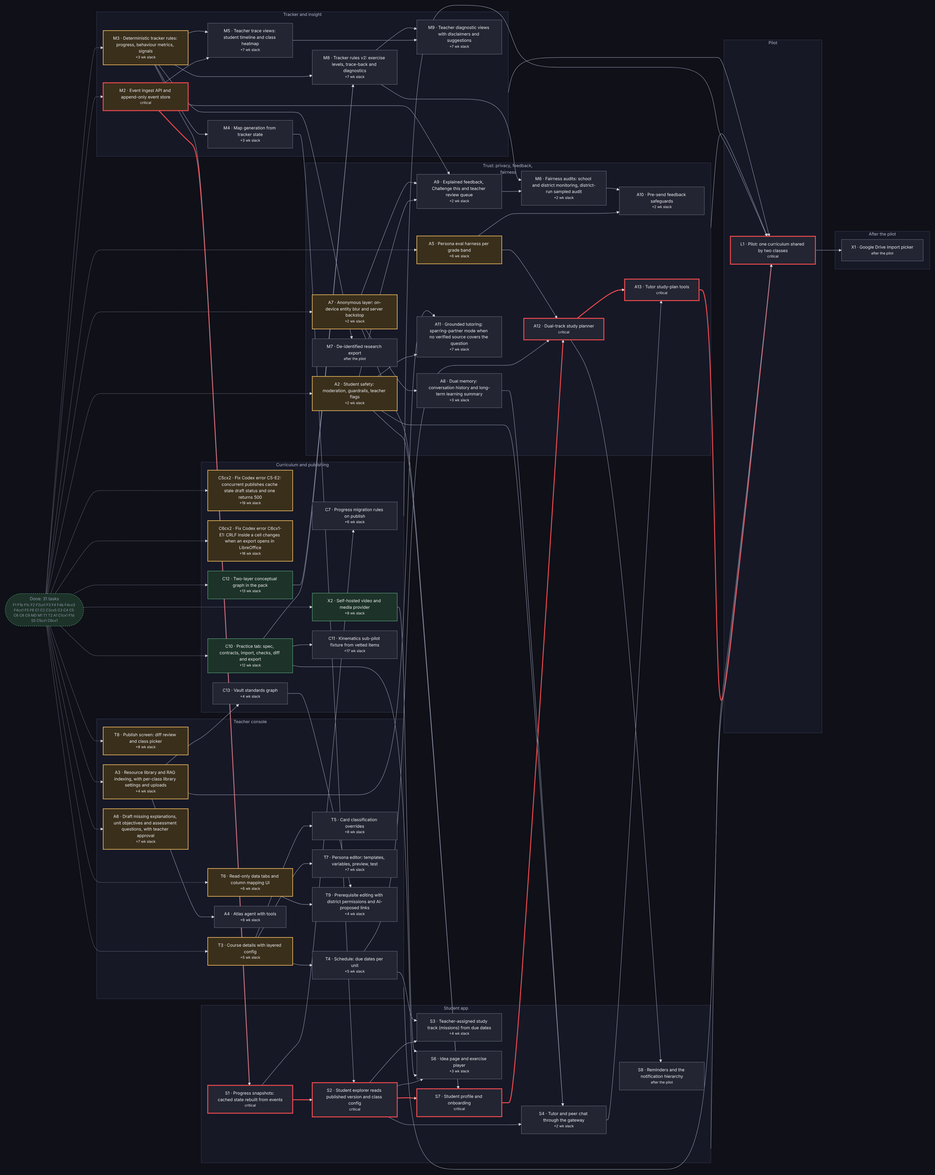
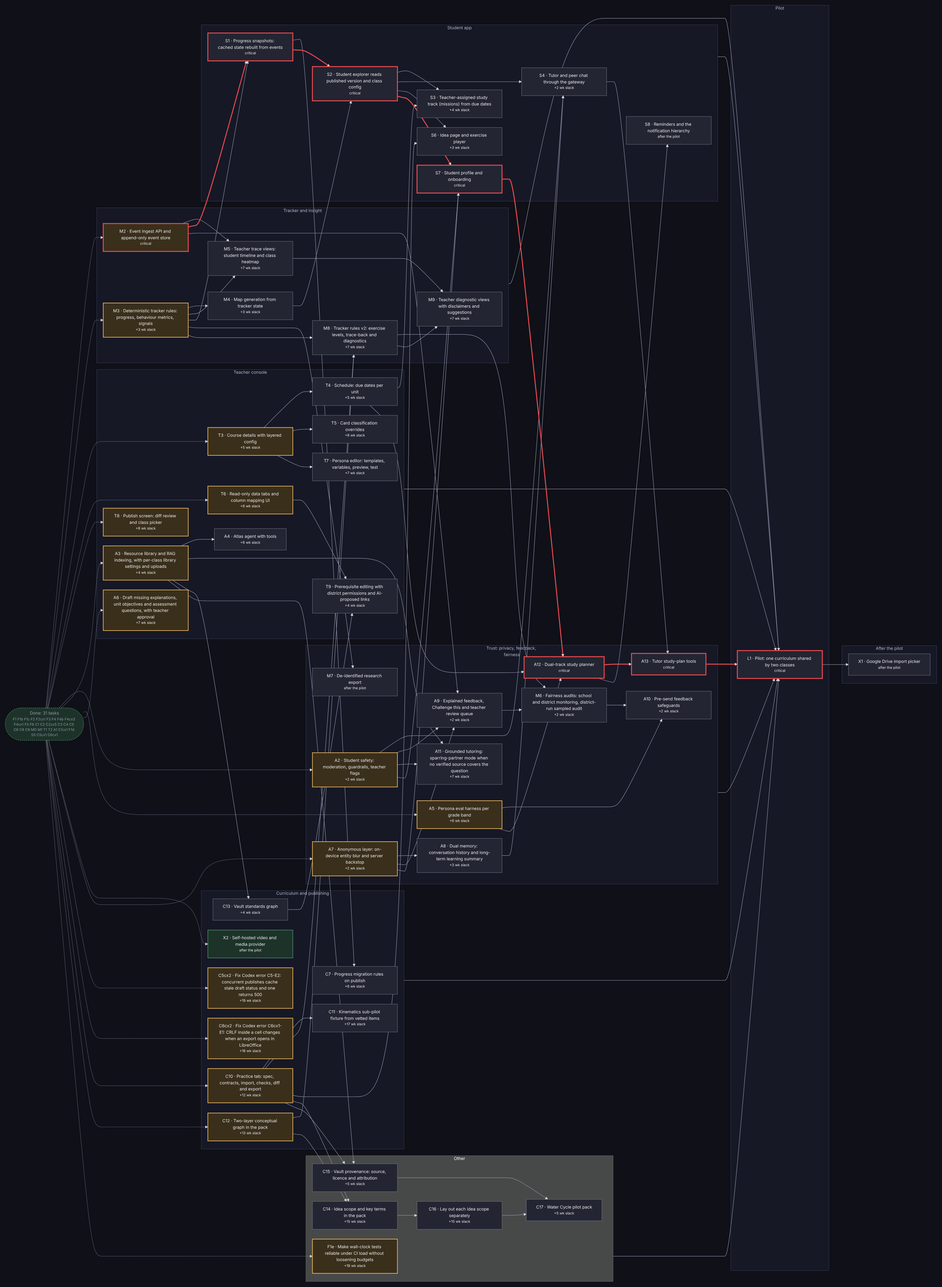
docs: D31 vault provenance, D43 scope and key terms, D44 pilot graph; add C14-C17 and S9
User decisions 2026-10-29. D31 amended: vault items are official company
assets but keep source, licence and attribution; NC or SA items need admin
approval. D43: Ideas gain scope (prerequisite, core, extension) and
key_terms; the unchanged layout runs per scope. D44: the Water Cycle pilot
graph (10 ideas incl. Runoff, Collection & Gravity, 12 links) in
docs/decisions. Criteria written first for C14 (columns), C15 (vault
provenance), C16 (per-scope layout) and C17 (pilot pack); S9 (zoom and
sandbox views) is a later-version placeholder. L1 now depends on C14-C17.

Claude-Session: https://claude.ai/code/session_017xAqLcBw3ZrNAbTTGfVg5K

diff --git a/docs/ARCHITECTURE.md b/docs/ARCHITECTURE.md
@@ -39,7 +39,7 @@ Companions: `docs/PLAN.md` (live to-do list and dependency map, generated from `
 | D28 | Dual memory: short-term conversation, long-term learning summary | Short-term memory is the current conversation, already anonymised. Long-term entity summaries may hold misconceptions, what helped, preferred pace, and up to five interests from the approved category list. They never hold feelings or mood history, family, health, friendships, personality traits, or anything from an A2-flagged conversation. Memory is never used for D20 inferences, D16 audits or D25 research, and never shared across classes (user, 2026-10-23). **Extended by D36 (user, 2026-10-29)** for the student profile |
 | D29 | Memory lasts while enrolled, and can be seen and deleted | Long-term memory lasts while the student is enrolled, matching D22, and is deleted when they leave or on a FERPA request. The student can see "what Ms. Ivy remembers about me", delete any item and turn memory off. Their teacher can view and delete memory for their class (user, 2026-10-23) |
 | D30 | Feedback teaching events name the teacher, pseudonymously | `feedback.ruled`, `teacher.feedback.approved` and `teacher.feedback.edited` carry the acting teacher's pseudonymous id (never a name or email). It is extra information, not a core field: it lets D15's labelled examples weigh each teacher's contributions equally, so a teacher who rules or edits often does not outweigh one who gives a single strong example. Teacher ids are never shown to students (user, 2026-10-24) |
-| D31 | Library assets are tiered: a kept vault and disposable class uploads | **Official** materials (the curriculum's shared library documents, uploaded to the organization by its author or an admin, open-access, no student PII) go to a persistent, versioned **vault**: the original file and its passages are kept, a document is updated by a new version or taken out of use (`off`, archived), never deleted, and a change of embedding vendor (§12 q6) re-embeds from the stored files. **Unofficial** materials (a teacher's class uploads, D11) are disposable: the teacher may archive or delete one, and they are deleted with their class, passages and embeddings included. Neither tier is in the FERPA student-delete path (user, 2026-10-28; revises the same day's "never deleted" for class uploads) |
+| D31 | Library assets are tiered: a kept vault and disposable class uploads | **Official** materials (the curriculum's shared library documents, uploaded to the organization by its author or an admin, open-access, no student PII) go to a persistent, versioned **vault**: the original file and its passages are kept, a document is updated by a new version or taken out of use (`off`, archived), never deleted, and a change of embedding vendor (§12 q6) re-embeds from the stored files. **Unofficial** materials (a teacher's class uploads, D11) are disposable: the teacher may archive or delete one, and they are deleted with their class, passages and embeddings included. Neither tier is in the FERPA student-delete path (user, 2026-10-28; revises the same day's "never deleted" for class uploads) **Amended (user, 2026-10-29):** everything in the vault is an official company asset, curated and approved in-house, and the only ground for the tutor's facts (D35). Each vault item still keeps its provenance: `source`, `license_type` and `attribution_string`, with the attribution shown wherever its licence requires credit (including the tutor's citations). Calling an item a company asset does not change its licence terms, so an item under a non-commercial (NC) or share-alike (SA) licence enters the vault only after an admin approves it. Task C15 |
 | D32 | Safety flags are alerts, not the school's record | Idea Map is an alerting pipeline, not the school's compliance system of record. A flag is deleted with its transcript at the district's AI retention period (default 90 days). Once resolved, it is deleted after the district's early-deletion window if that comes first: a per-district setting, default 30 whole days (deleted on day 31), so districts can match their DPA. Like every retention period (§10, F6), the setting lives on the organization and the daily retention job reads it at run time, so a change applies to every resolved flag at once and is audited (user, 2026-10-28) |
 | D33 | On-device names come from an ML NER model | The device layer (D26) finds people's names and places with an on-device ML NER model reading sentence context, not word lists, so no class roster is ever sent to or stored on a student device. Pattern rules still catch contact details and school identifiers; the server backstop (D27) still matches the roster server-side If no ML model can be loaded (the chosen one, or a configured alternative), the device layer fails closed: student chat is blocked until a model is available, and the device never falls back to word lists. The model's licence (no licence stated on its card; MIT base model; CoNLL-2003 training data) is accepted for now and revisited before release. A measured accuracy bar on children's writing is deferred (user, 2026-10-28) |
 | D34 | Persona eval baselines are teacher-approved | Persona eval ground truth (§9) comes from replies a teacher approves, which feed a living set of evidence, instead of hand-written or one-off recorded baselines. How approvals are tagged to persona template versions, so old approvals don't conflict with updated templates, is still open (§12 q14) (user, 2026-10-28) |
@@ -51,6 +51,8 @@ Companions: `docs/PLAN.md` (live to-do list and dependency map, generated from `
 | D40 | Practice is the ninth tab, from vetted item banks only | The Practice tab (exercises, worked-example video and steps, mastery practice) is populated only from externally sourced, psychometrically vetted item banks (for example OpenStax, PhET, NASA/NOAA). Neither the platform nor a model authors independent-practice questions. Independent practice is locked to the verified master sheet (user, 2026-10-29; spec `docs/decisions/2026-10-29-prototype-spec.md`). **Settled:** every Practice row carries `source_bank_id` (e.g. OpenStax, PhET, NASA), `license_type` (e.g. Public Domain, CC-BY-4.0) and `attribution_string`, which the UI renders visibly. C3's generated map quizzes and A6's teacher-approved teach-back drafts stay: they are formative scaffolds, not independent practice (user, 2026-10-29, §12 q16–q23). **Settled (user, 2026-10-29, §12 q25):** Practice items are always shown verbatim with their attribution; student interests (D41 `interest_tags`) shape only Ms. Ivy's and Milo's examples and hints and the formative generated content (C3, A6), never a vetted item. **Settled (user, 2026-10-29): D40 stays strict.** A teacher's own worksheets and uploads never enter the Practice tab, whoever authored them and whatever licence they carry, and Atlas never inserts them there. They stay class uploads (D31, unofficial tier) and appear as formative practice labelled as the teacher's, separate from vetted items and outside the vetted mastery levels |
 | D41 | Standards-aligned Vault graph and two-layer trace-back | "Traced to weakest prerequisite" is an explained teacher signal (D20). Procedural domains (e.g. kinematics) are a strict DAG of mathematical and operational steps. Conceptual or cyclical domains (e.g. the water cycle) are two layers: the surface process loop (evaporation → condensation → precipitation) over underlying causal mechanisms (thermal energy, phase change, gravity, droplet mass, topography) aligned to NGSS/CCSS standards pre-loaded in the Vault; trace-back goes down to the mechanism layer, not around the loop. In teacher-led mode, editing curriculum or attaching custom worksheets follows district permissions: Locked, Direct edit, or Admin review queue, always draft → publish. For an uploaded worksheet the AI proposes prerequisite links into the Vault graph and the teacher adjusts edges or adds nodes before publishing (user, 2026-10-29; spec `docs/decisions/2026-10-29-prototype-spec.md`). **Settled:** per-curriculum interest hooks are `interest_tags: string[]` on curriculum module metadata in the Vault, matched against the student's profile tags when a prompt is assembled (user, 2026-10-29, §12 q16–q23) |
 | D42 | Pilot scope; self-hosted video | Videos are self-hosted through the media provider (X2), never third-party embedded players, so playback works behind school firewalls; ~~X2 moves before the pilot~~ **Amended (user, 2026-10-29): X2 moves after the pilot.** Video hosting and the player come once the pilot has validated the node graph and tutor mechanics; until then `media_url` and `demo_video_url` show placeholder cards, and no third-party player is used in the meantime. The two-layer graph (C12) and trace-back (M8) stay in pilot scope. The pilot launches with the Water Cycle (conceptual, two-layer) as the primary unit and Kinematics (procedural) as a sub-pilot (user, 2026-10-29; spec `docs/decisions/2026-10-29-prototype-spec.md`). **Settled:** X2 is our own S3-compatible object storage served from our own domain or CDN distribution, not YouTube or Cloudinary widgets; every video needs a WebVTT caption file (ADA) (user, 2026-10-29, §12 q16–q23) |
+| D43 | Idea scope and key terms | Ideas gain two optional `sheet` columns. `scope` ∈ prerequisite, core, extension (missing means core) says where an idea sits: **core** ideas form the grade's main map; **prerequisite** ideas (earlier units or lower grades) appear when a student zooms in for remediation; **extension** ideas form the sandbox of outward connections. `scope` is independent of D41's `layer` (process or mechanism). `unit` stays required: for a prerequisite or extension idea it names the unit the idea supports. `key_terms` is a list of the vocabulary taught inside an idea (instruments, units, examples such as barometer, lux, hailstone); key terms are never map nodes, and are used for the glossary, search, retrieval and Milo's teach-back check. Only a full process with its own objective, practice and teach-back becomes an idea. The layout algorithm is unchanged, but it runs per scope, so the main map is laid out from core ideas only (user, 2026-10-29). Tasks C14, C16; zoom and sandbox views S9 (later version) |
+| D44 | Water Cycle pilot graph | The pilot Water Cycle (D42) is authored in-house, with OpenSciEd Unit 6.3 (CC BY 4.0) as the conceptual reference and vocabulary inventory, never imported wholesale. It has 10 ideas: 2 prerequisite, 6 core (including Runoff, Collection & Gravity, which closes the cycle and covers gravity, as MS-ESS2-4 requires) and 2 extension, plus 12 links. The graph is in `docs/decisions/2026-10-29-water-cycle-pilot-graph.md`. Clicking an idea opens its teaching and practice page (S6), not a nested sub-graph (user, 2026-10-29). Task C17 |
 
 ## 2. The core split
 

diff --git a/docs/decisions/2026-10-29-water-cycle-pilot-graph.md b/docs/decisions/2026-10-29-water-cycle-pilot-graph.md
@@ -1,0 +1,60 @@
+# Water Cycle pilot graph (D44)
+
+Settled by the user on 2026-10-29. This is the structure of the pilot curriculum (D42, task L1). Teachers author the explanations, objectives and teach-back questions. Where they leave one empty, A6 drafts it for teacher approval.
+
+## Scope and grounding
+
+- **Standard:** NGSS MS-ESS2-4. Develop a model to describe the cycling of water through Earth's systems, driven by energy from the sun and the force of gravity.
+- **Ownership:** The curriculum is authored and approved in-house. OpenSciEd Unit 6.3 (*Weather, Climate & Water Cycling*, v1.0, CC BY 4.0) is the conceptual reference and vocabulary inventory, not an import. Any reused text or figure carries its attribution (D31 as amended).
+- **Tutors:** Ms. Ivy states facts only from vault sources and asks questions where none exists (D35). Milo checks teach-backs against each idea's objective and key points.
+- **Clicking an idea** opens its teaching and practice page (S6).
+
+## Ideas
+
+`scope` and `key_terms` are D43. `layer` is D41/C12. `unit` names the unit an idea supports. Units: 1 *Water goes up*, 2 *Water in the sky*, 3 *Water comes down and moves on*.
+
+| # | idea_id | Title | scope | layer | unit | category | standard_codes | requires | key_terms (from the OpenSciEd 6.3 word wall) |
+|---|---|---|---|---|---|---|---|---|---|
+| 1 | `thermal` | Thermal Energy & Particle Motion | prerequisite | mechanism | 1 | Force | MS-PS1-4, MS-PS3-4 | | particles, energy, temperature, mass |
+| 2 | `solar` | Solar Radiation & Surface Heating | prerequisite | mechanism | 1 | Force | MS-PS4-2, MS-PS3-4 | | incoming light, reflected, absorbed, conduction, lux |
+| 3 | `evap` | Evaporation & Humidity | core | process | 1 | Process | MS-ESS2-4 | thermal | evaporation, humidity, relative humidity, parcel of air |
+| 4 | `convection` | Air Density & Convection | core | process | 1 | Process | MS-ESS2-4 | solar | density, convection, fluid, altitude, atmosphere |
+| 5 | `cond` | Condensation & Cloud Formation | core | process | 2 | Process | MS-ESS2-4 | evap | condensation, condensation/boiling point, freezing/melting point, deposition, cloud condensation nuclei (CCN) |
+| 6 | `pressure` | Air Pressure & Updrafts | core | process | 2 | Force | MS-ESS2-4 | convection | higher/lower pressure air, air pressure, lift force, downdrafts, updrafts, currents, barometer |
+| 7 | `precip` | Precipitation | core | process | 3 | Process | MS-ESS2-4 | cond | precipitation, hail, weather conditions, hailstone |
+| 8 | `runoff` | Runoff, Collection & Gravity | core | process | 3 | Process | MS-ESS2-4 | precip | gravity, runoff, collection, infiltration, groundwater, watershed |
+| 9 | `fronts` | Air Masses & Fronts | extension | process | 3 | Thing | MS-ESS2-5 | precip, convection | air mass, front, forecast |
+| 10 | `climates` | Regional Climates | extension | process | 3 | Thing | MS-ESS2-6 | fronts | climate, tropical rainforest, temperate rainforest, hurricane |
+
+- Gravity moved from Air Pressure's terms to Runoff, Collection & Gravity. That idea now teaches the force that returns water downhill.
+- If the trace-back later needs gravity as a mechanism of its own, gravity can be split out as a prerequisite and mechanism idea, as C12 allows.
+
+## Links
+
+All links have `importance` 3 unless a teacher changes it. The relations become quiz questions (C3).
+
+| From | Relation | To |
+|---|---|---|
+| Thermal Energy & Particle Motion | powers | Evaporation & Humidity |
+| Solar Radiation & Surface Heating | drives | Air Density & Convection |
+| Evaporation & Humidity | supplies water vapour for | Condensation & Cloud Formation |
+| Air Density & Convection | triggers | Condensation & Cloud Formation |
+| Air Density & Convection | creates | Air Pressure & Updrafts |
+| Condensation & Cloud Formation | leads to | Precipitation |
+| Air Pressure & Updrafts | suspends or drops | Precipitation |
+| Precipitation | flows downhill as | Runoff, Collection & Gravity |
+| Runoff, Collection & Gravity | returns water to | Evaporation & Humidity |
+| Precipitation | scales up to | Air Masses & Fronts |
+| Air Density & Convection | scales up to | Air Masses & Fronts |
+| Air Masses & Fronts | determine | Regional Climates |
+
+- The links close the surface loop: evaporation → condensation → precipitation → runoff → evaporation.
+- `requires` stays acyclic: runoff returns water to evaporation as a link, never as a prerequisite. This is the loop C12-F2 allows.
+
+## Layout check
+
+These are the results of running the current ranking and layout code (`packages/domain`, unchanged) on this graph on 2026-10-29.
+
+- **All 10 ideas on one map:** the centre is Air Density & Convection. A prerequisite (Thermal Energy) and an extension (Air Masses & Fronts) land on the inner ring. This is why D43 lays out each scope separately (C16).
+- **Core ideas only:** the centre is Condensation & Cloud Formation. Precipitation, Evaporation, Air Density, Air Pressure and Runoff form the inner ring, and all 7 core links are kept.
+- **Choosing the centre:** the centre is whichever idea has the most links. To put another idea at the centre, raise the importance of its links in the sheet.

diff --git a/docs/qa/C15.md b/docs/qa/C15.md
@@ -1,0 +1,38 @@
+# QA criteria: C15 · Vault provenance: source, licence and attribution
+
+Done when: per D31 (as amended 2026-10-29), every vault item and Library row keeps `source`, `license_type` and `attribution_string`. Attribution is shown wherever the licence requires credit, including the tutor's citations. A non-commercial (NC) or share-alike (SA) item enters the vault only after an admin approves it.
+Sources: `docs/ARCHITECTURE.md` D31 (amended), D35 (citations), D40 (allow-list pattern), D11, D3; `docs/spec/`; A3 (vault and RAG), C10 (licence allow-list configuration), C1, C2, C5, C6.
+
+Boundary: Library tab columns, vault document records, the approval gate, and attribution in retrieval citations. Class uploads (the unofficial tier) are out of scope and need no licence fields.
+
+## Functional
+
+| Id | Weight | Check | Steps | Pass bar |
+|---|---|---|---|---|
+| C15-F1 | must | Spec and contracts | Read `docs/spec/` and parse Library rows | Library gains `source`, `license_type` and `attribution_string` (`both`), each with its missing behaviour and an example (OpenSciEd Unit 6.3, CC-BY-4.0, its attribution line) |
+| C15-F2 | must | Missing provenance blocks | Import a Library row with no source or licence, and a CC-BY row with no attribution | Each is a data-check **error** that blocks publishing, located by tab, row and column |
+| C15-F3 | must | Licence list is configuration | Import rows under an allow-listed licence, an unknown licence, and a CC-BY-NC or CC-BY-SA licence | Allow-listed licences pass. An unknown licence is an error. NC and SA items import but stay **pending admin approval** and are not retrievable until an admin approves them. The licence list, including which licences need approval, is configuration (shared with C10's), not code |
+| C15-F4 | must | Admin approval | Approve, as an admin, a pending NC item; try the same as a teacher and an author | The admin's approval is audited (actor, item, licence) and makes the item retrievable. A teacher or author gets 403 |
+| C15-F5 | must | Kept with the vault | Replace a vault document with a new version, then take it out of use | Provenance is versioned with the document and kept after it is taken out of use (D31: never deleted) |
+| C15-F6 | must | Attribution in citations | Ask the tutor a question answered from a CC-BY vault item | The grounded answer's citation shows the item's attribution string. An item whose licence needs no credit shows its title only |
+| C15-F7 | must | Diff and export | Change an item's licence, then export | C5 diff shows the provenance change; C6 export round-trips all three columns |
+| C15-F8 | must | Everything passes | Root lint, format:check, typecheck, test with DATABASE_URL (including `function_binding.test.ts`), build and plan check, on the head merged with current `idea-map` | All exit 0; CI green on the exact head |
+
+## Security
+
+| Id | Weight | Check | Steps | Pass bar |
+|---|---|---|---|---|
+| C15-S1 | must | Gate can't be bypassed | Call retrieval directly for a pending NC item, from another org and from a student session | Never returned. Row-level security still isolates orgs |
+| C15-S2 | must | Policy on new routes | Run the route-policy sweep | Every new route declares a policy (F5) |
+
+## Performance
+
+| Id | Weight | Check | Steps | Pass bar |
+|---|---|---|---|---|
+| C15-P1 | must | Retrieval cost | Retrieval over 500 vault documents with provenance | Within A3's retrieval budget; the approval filter adds no measurable p95 regression |
+
+## Usability
+
+| Id | Weight | Check | Steps | Pass bar |
+|---|---|---|---|---|
+| C15-U1 | must | Plain approval screen | An admin opens the pending list | Each item shows title, source, licence in plain words (for example "Non-commercial: can't be used in paid products") and who added it |

diff --git a/docs/qa/C14.md b/docs/qa/C14.md
@@ -1,0 +1,37 @@
+# QA criteria: C14 · Idea scope and key terms in the pack
+
+Done when: per D43, Ideas carry `scope` (prerequisite, core, extension) and `key_terms`. Both are in `docs/spec/`, zod contracts, C1 import from CSV, XLSX and pack JSON, C2 data checks, C5 diff and C6 export. A pack without the columns behaves exactly as before.
+Sources: `docs/ARCHITECTURE.md` D43, D41 (`layer` is a separate column), D8, D12; `docs/decisions/2026-10-29-water-cycle-pilot-graph.md`; `docs/spec/`; C1, C2, C2cx5, C5, C5cx1, C6, C6cx1, C6cx2, C10, C12; `fixtures/water-cycle/`.
+
+Boundary: pack data, checks, diff and export only. Laying out each scope is C16. Zoom and sandbox views are S9. The pilot pack is C17.
+
+## Functional
+
+| Id | Weight | Check | Steps | Pass bar |
+|---|---|---|---|---|
+| C14-F1 | must | Spec and contracts | Read `docs/spec/` (README, fields JSON, schema) and parse Ideas rows | Ideas gain `scope` ∈ prerequisite, core, extension (`sheet`; missing means core) and `key_terms` (list, comma-separated in CSV and XLSX, an array in JSON; `sheet`; missing means none). Each has a type, missing behaviour, note and example. The note on `scope` says it is independent of `layer`, and `unit` stays required for every scope |
+| C14-F2 | must | Three forms agree | Add both columns to the water-cycle fixture as CSV, XLSX and pack JSON (at least one idea in each scope, several with key terms) and import all three | The parsed packs are deep-equal. Earlier tabs and documented deliberate errors are unchanged, and the fixture README lists the new values |
+| C14-F3 | must | Backward compatible | Import the current fixture and a Kinematics-style pack without the columns | Every idea is core with no key terms. Derived output (ranking, layout, quizzes) is byte-identical to before the change |
+| C14-F4 | must | Data checks | Import: an invalid `scope` value; a pack with no core idea; a core idea whose `requires` names an extension idea; the same key term repeated within one idea; a key term equal to an idea title | Invalid scope and no core idea are **errors** that block publishing, located by tab, row and column. Core requiring extension is a **warning** ("extension ideas build on the core, not the other way round"). A duplicate term is **info**. A key term matching an idea title is a **warning** ("this term is also an idea; link to the idea instead"). Each message names the ideas |
+| C14-F5 | must | Diff (C5) | Publish, then change one idea's scope and add and remove key terms | The diff lists scope changes (old → new) and key-term additions and removals by idea display name, independent of order |
+| C14-F6 | must | Export (C6) | Export to CSV, XLSX and pack JSON and re-import | Round-trips, with canonical line endings (C6cx2) |
+| C14-F7 | must | Everything passes | Root lint, format:check, typecheck, test with DATABASE_URL (including `function_binding.test.ts`), build and plan check, on the head merged with current `idea-map` | All exit 0; CI green on the exact head |
+
+## Security
+
+| Id | Weight | Check | Steps | Pass bar |
+|---|---|---|---|---|
+| C14-S1 | must | No student data | Read the change | Curriculum data only |
+| C14-S2 | must | Input limits | Import 1,000 key terms on one idea and a 10,000-character term | Each limit from the spec is enforced with a located error; nothing crashes |
+
+## Performance
+
+| Id | Weight | Check | Steps | Pass bar |
+|---|---|---|---|---|
+| C14-P1 | must | Large pack | 2,000 ideas with 10 key terms each | Import and checks stay within C2's budget |
+
+## Usability
+
+| Id | Weight | Check | Steps | Pass bar |
+|---|---|---|---|---|
+| C14-U1 | must | Clear messages | Read each new check | Plain words, naming the idea and saying what to change in which column |

diff --git a/docs/PLAN.md b/docs/PLAN.md
@@ -2,7 +2,7 @@
 
 <!-- Generated by `node scripts/plan.mjs` from docs/tasks.json. Do not edit by hand. -->
 
-**31 of 78 done** · 1 ready · 0 in progress · 15 in review · 29 blocked · 2 need a spec
+**31 of 83 done** · 1 ready · 0 in progress · 15 in review · 33 blocked · 3 need a spec
 
 Critical path: F1 → F3 → F4 → F5 → M2 → S1 → S2 → S7 → A12 → A13 → L1 (up to 22 weeks)
 
@@ -51,7 +51,7 @@ Pick from here. Claim with `node scripts/plan.mjs claim <ID> <agent>`. A task ca
 | S2 | Student explorer reads published version and class config | S1, M4 |
 | S3 | Teacher-assigned study track (missions) from due dates | S2, T4 |
 | S4 | Tutor and peer chat through the gateway | S2, A2, A7, A8 |
-| L1 | Pilot: one curriculum shared by two classes | T5, T6, T7, T8, A4, A5, S3, S4, C7, M5, A6, A7, A9, A10, M6, C5cx2, A11, C6cx2, C10, C11, C12, C13, T9, M8, M9, S6, S7, A12, A13, F1e |
+| L1 | Pilot: one curriculum shared by two classes | T5, T6, T7, T8, A4, A5, S3, S4, C7, M5, A6, A7, A9, A10, M6, C5cx2, A11, C6cx2, C10, C11, C12, C13, T9, M8, M9, S6, S7, A12, A13, F1e, C14, C15, C16, C17 |
 | X1 | Google Drive import picker | L1 |
 | A8 | Dual memory: conversation history and long-term learning summary | A7 |
 | A9 | Explained feedback, Challenge this and teacher review queue | A2, M2, A7 |
@@ -69,6 +69,10 @@ Pick from here. Claim with `node scripts/plan.mjs claim <ID> <agent>`. A task ca
 | A12 | Dual-track study planner | S7, T4, A5 |
 | A13 | Tutor study-plan tools | A12, S4 |
 | S8 | Reminders and the notification hierarchy | A12 |
+| C14 | Idea scope and key terms in the pack | C10, C12 |
+| C15 | Vault provenance: source, licence and attribution | A3, C10 |
+| C16 | Lay out each idea scope separately | C14 |
+| C17 | Water Cycle pilot pack | C12, C14, C15, C16 |
 
 ## Needs a spec (placeholder)
 
@@ -78,6 +82,7 @@ Not claimable yet. A person writes the spec, then sets `placeholder` to false in
 |---|---|---|
 | CXB | Codex suggestions waiting for task criteria (holding list, not claimable) | — |
 | A5b | Teacher-approved persona eval baselines | A5 |
+| S9 | Remediation zoom and sandbox views | S2, C16, C13, M8 |
 
 ## Done
 
@@ -187,6 +192,10 @@ flowchart LR
   end
   subgraph other["Other"]
     F1e["F1e · Make wall-clock tests reliable under CI load without loosening budgets<br/><small>+19 wk slack</small>"]
+    C14["C14 · Idea scope and key terms in the pack<br/><small>+15 wk slack</small>"]
+    C15["C15 · Vault provenance: source, licence and attribution<br/><small>+5 wk slack</small>"]
+    C16["C16 · Lay out each idea scope separately<br/><small>+15 wk slack</small>"]
+    C17["C17 · Water Cycle pilot pack<br/><small>+5 wk slack</small>"]
   end
   DONE -.-> M2
   DONE -.-> M3
@@ -254,6 +263,13 @@ flowchart LR
   A12 ==> A13
   S4 --> A13
   A12 --> S8
+  C10 --> C14
+  C12 --> C14
+  A3 --> C15
+  C10 --> C15
+  C14 --> C16
+  C15 --> C17
+  C16 --> C17
   teacher --> L1
   student --> L1
   curriculum --> L1
@@ -276,7 +292,7 @@ flowchart LR
   classDef spec fill:#161826,stroke:#968ae0,color:#b2b6ca,stroke-dasharray:6 4
   classDef done fill:#1d3329,stroke:#6fcf97,color:#9397ab,stroke-dasharray:3 3
   classDef crit stroke:#e5484d,stroke-width:3px
-  class C7,M4,M5,T4,T5,T7,A4,S1,S2,S3,S4,L1,X1,A8,A9,A10,M6,M7,A11,C11,C13,T9,M8,M9,S6,S7,A12,A13,S8 todo
+  class C7,M4,M5,T4,T5,T7,A4,S1,S2,S3,S4,L1,X1,A8,A9,A10,M6,M7,A11,C11,C13,T9,M8,M9,S6,S7,A12,A13,S8,C14,C15,C16,C17 todo
   class X2 ready
   class M2,M3,T3,T6,T8,A2,A3,A5,A6,A7,C5cx2,C6cx2,C10,C12,F1e review
   class DONE done

diff --git a/docs/qa/C17.md b/docs/qa/C17.md
@@ -1,0 +1,36 @@
+# QA criteria: C17 · Water Cycle pilot pack
+
+Done when: per D44, `fixtures/water-cycle-pilot/` holds the pilot curriculum's structure as CSV, XLSX and pack JSON. It has the 10 ideas, 12 links, scopes, layers, standards, prerequisites and key terms from the decision record, the OpenSciEd reference in Library with its provenance, imports with no errors, and publishes in the local demo.
+Sources: `docs/decisions/2026-10-29-water-cycle-pilot-graph.md`; `docs/ARCHITECTURE.md` D44, D43, D41, D31 (amended), D40, D9; `docs/spec/`; C10, C12, C14, C15, C16; `fixtures/water-cycle/` (as a format example only).
+
+Boundary: curriculum structure only. Explanations, objectives and teach-back questions are authored by the user and teachers or drafted by A6, so leave them empty unless the user supplies text. Practice rows come only from vetted banks (D40); leave Practice empty unless rows with verified source and licence are supplied. The existing `fixtures/water-cycle/` stays as it is: tests rely on its deliberate errors.
+
+## Functional
+
+| Id | Weight | Check | Steps | Pass bar |
+|---|---|---|---|---|
+| C17-F1 | must | Matches the decision record | Compare the pack with the record's Ideas and Links tables | Every idea_id, title, scope, layer, unit, category, standard code, requires entry, key term and link (from, relation, to, importance 3) matches. Units 1–3 are named as in the record |
+| C17-F2 | must | Three forms agree | Import the CSV, XLSX and pack JSON | Deep-equal packs |
+| C17-F3 | must | Clean import | Import as a teacher in `pnpm dev:auth` | 0 errors and 0 warnings. Info notes only for missing media and drafts, as expected. It publishes to a class |
+| C17-F4 | must | Layout | Read the derived output | The main map's centre and inner ring match the record's "Core ideas only" result (C16-F1) |
+| C17-F5 | must | Library provenance | Read the Library tab | OpenSciEd Unit 6.3, v1.0, with `license_type` CC-BY-4.0 and the attribution line OpenSciEd asks for, copied from OpenSciEd's own attribution guidance (cite the URL in the README) |
+| C17-F6 | must | README | Read `fixtures/water-cycle-pilot/README.md` | States that this is the pilot structure, which fields are left for teachers or A6, and that it has no deliberate errors |
+| C17-F7 | must | Everything passes | Root lint, format:check, typecheck, test with DATABASE_URL (including `function_binding.test.ts`), build and plan check, on the head merged with current `idea-map` | All exit 0; CI green on the exact head. A test imports the pilot pack and asserts C17-F3 and C17-F4 |
+
+## Security
+
+| Id | Weight | Check | Steps | Pass bar |
+|---|---|---|---|---|
+| C17-S1 | must | No student data, no copied content | Read the pack | No student data. No OpenSciEd text copied beyond titles and vocabulary terms; anything reused carries attribution |
+
+## Performance
+
+| Id | Weight | Check | Steps | Pass bar |
+|---|---|---|---|---|
+| C17-P1 | should | Import time | Import the pilot pack | Completes in under 5 s locally |
+
+## Usability
+
+| Id | Weight | Check | Steps | Pass bar |
+|---|---|---|---|---|
+| C17-U1 | must | Teacher-readable | Open the XLSX | Columns in spec order, with headers matching the spec exactly |

diff --git a/docs/qa/C16.md b/docs/qa/C16.md
@@ -1,0 +1,36 @@
+# QA criteria: C16 · Lay out each idea scope separately
+
+Done when: per D43, derivation runs the existing ranking and layout code on each scope's ideas, so the main map is laid out from core ideas only. Prerequisite and extension ideas get their own layouts, and links between scopes are kept for the zoom views. A pack without `scope` derives exactly as before.
+Sources: `docs/ARCHITECTURE.md` D43, D12, §5; `docs/decisions/2026-10-29-water-cycle-pilot-graph.md` (Layout check); `packages/domain/src/derive/` (rank, layout, quizzes); C3, C14.
+
+Boundary: `packages/domain` derivation and the derived contract. The algorithm stays as it is (centre = most links, inner ring of 6, outer ring near its neighbours). Drawing the views is M4/S2/S9.
+
+## Functional
+
+| Id | Weight | Check | Steps | Pass bar |
+|---|---|---|---|---|
+| C16-F1 | must | Main map is core only | Derive the C17 pilot graph, or the same graph built in a test | `layout` holds the core ideas only. Its centre is Condensation & Cloud Formation and its inner ring is Precipitation, Evaporation & Humidity, Air Density & Convection, Air Pressure & Updrafts and Runoff, Collection & Gravity, matching the decision record |
+| C16-F2 | must | Other scopes | Same pack | The derived output adds per-scope layouts for prerequisite and extension ideas, using the same layout function on each scope's ideas and the links among them, and lists cross-scope links (from, to, relation, importance) separately |
+| C16-F3 | must | Unchanged algorithm | Diff `rank.ts` and `layout.ts` | No change to how a set of ideas is ranked or placed. The change is in which ideas and links are passed in |
+| C16-F4 | must | Backward compatible | Derive the current water-cycle fixture and a pack without `scope` | `layout`, ranking and quizzes are byte-identical to the current output; per-scope layouts are empty |
+| C16-F5 | must | Quizzes | Derive the pilot graph | Quiz banks still come from all kept links, including cross-scope ones, with the same fixed seed. Changing an extension idea doesn't change a core idea's quiz unless they share a link |
+| C16-F6 | must | Downstream intact | Run C5 diff, C6 export and the import worker on the pilot graph | All succeed. The diff reports scope moves |
+| C16-F7 | must | Everything passes | Root lint, format:check, typecheck, test with DATABASE_URL (including `function_binding.test.ts`), build and plan check, on the head merged with current `idea-map` | All exit 0; CI green on the exact head |
+
+## Security
+
+| Id | Weight | Check | Steps | Pass bar |
+|---|---|---|---|---|
+| C16-S1 | must | Deterministic | Derive the same pack twice, and in a different row order | Identical output, with no clock or randomness beyond the pack seed |
+
+## Performance
+
+| Id | Weight | Check | Steps | Pass bar |
+|---|---|---|---|---|
+| C16-P1 | must | Large pack | 2,000 ideas split across three scopes | Derivation stays within C3's budget (F1e's helper) |
+
+## Usability
+
+| Id | Weight | Check | Steps | Pass bar |
+|---|---|---|---|---|
+| C16-U1 | must | Step label | Import the pilot pack | The "Lay out map" step's result names the core centre, for example "Condensation & Cloud Formation in the centre" |
